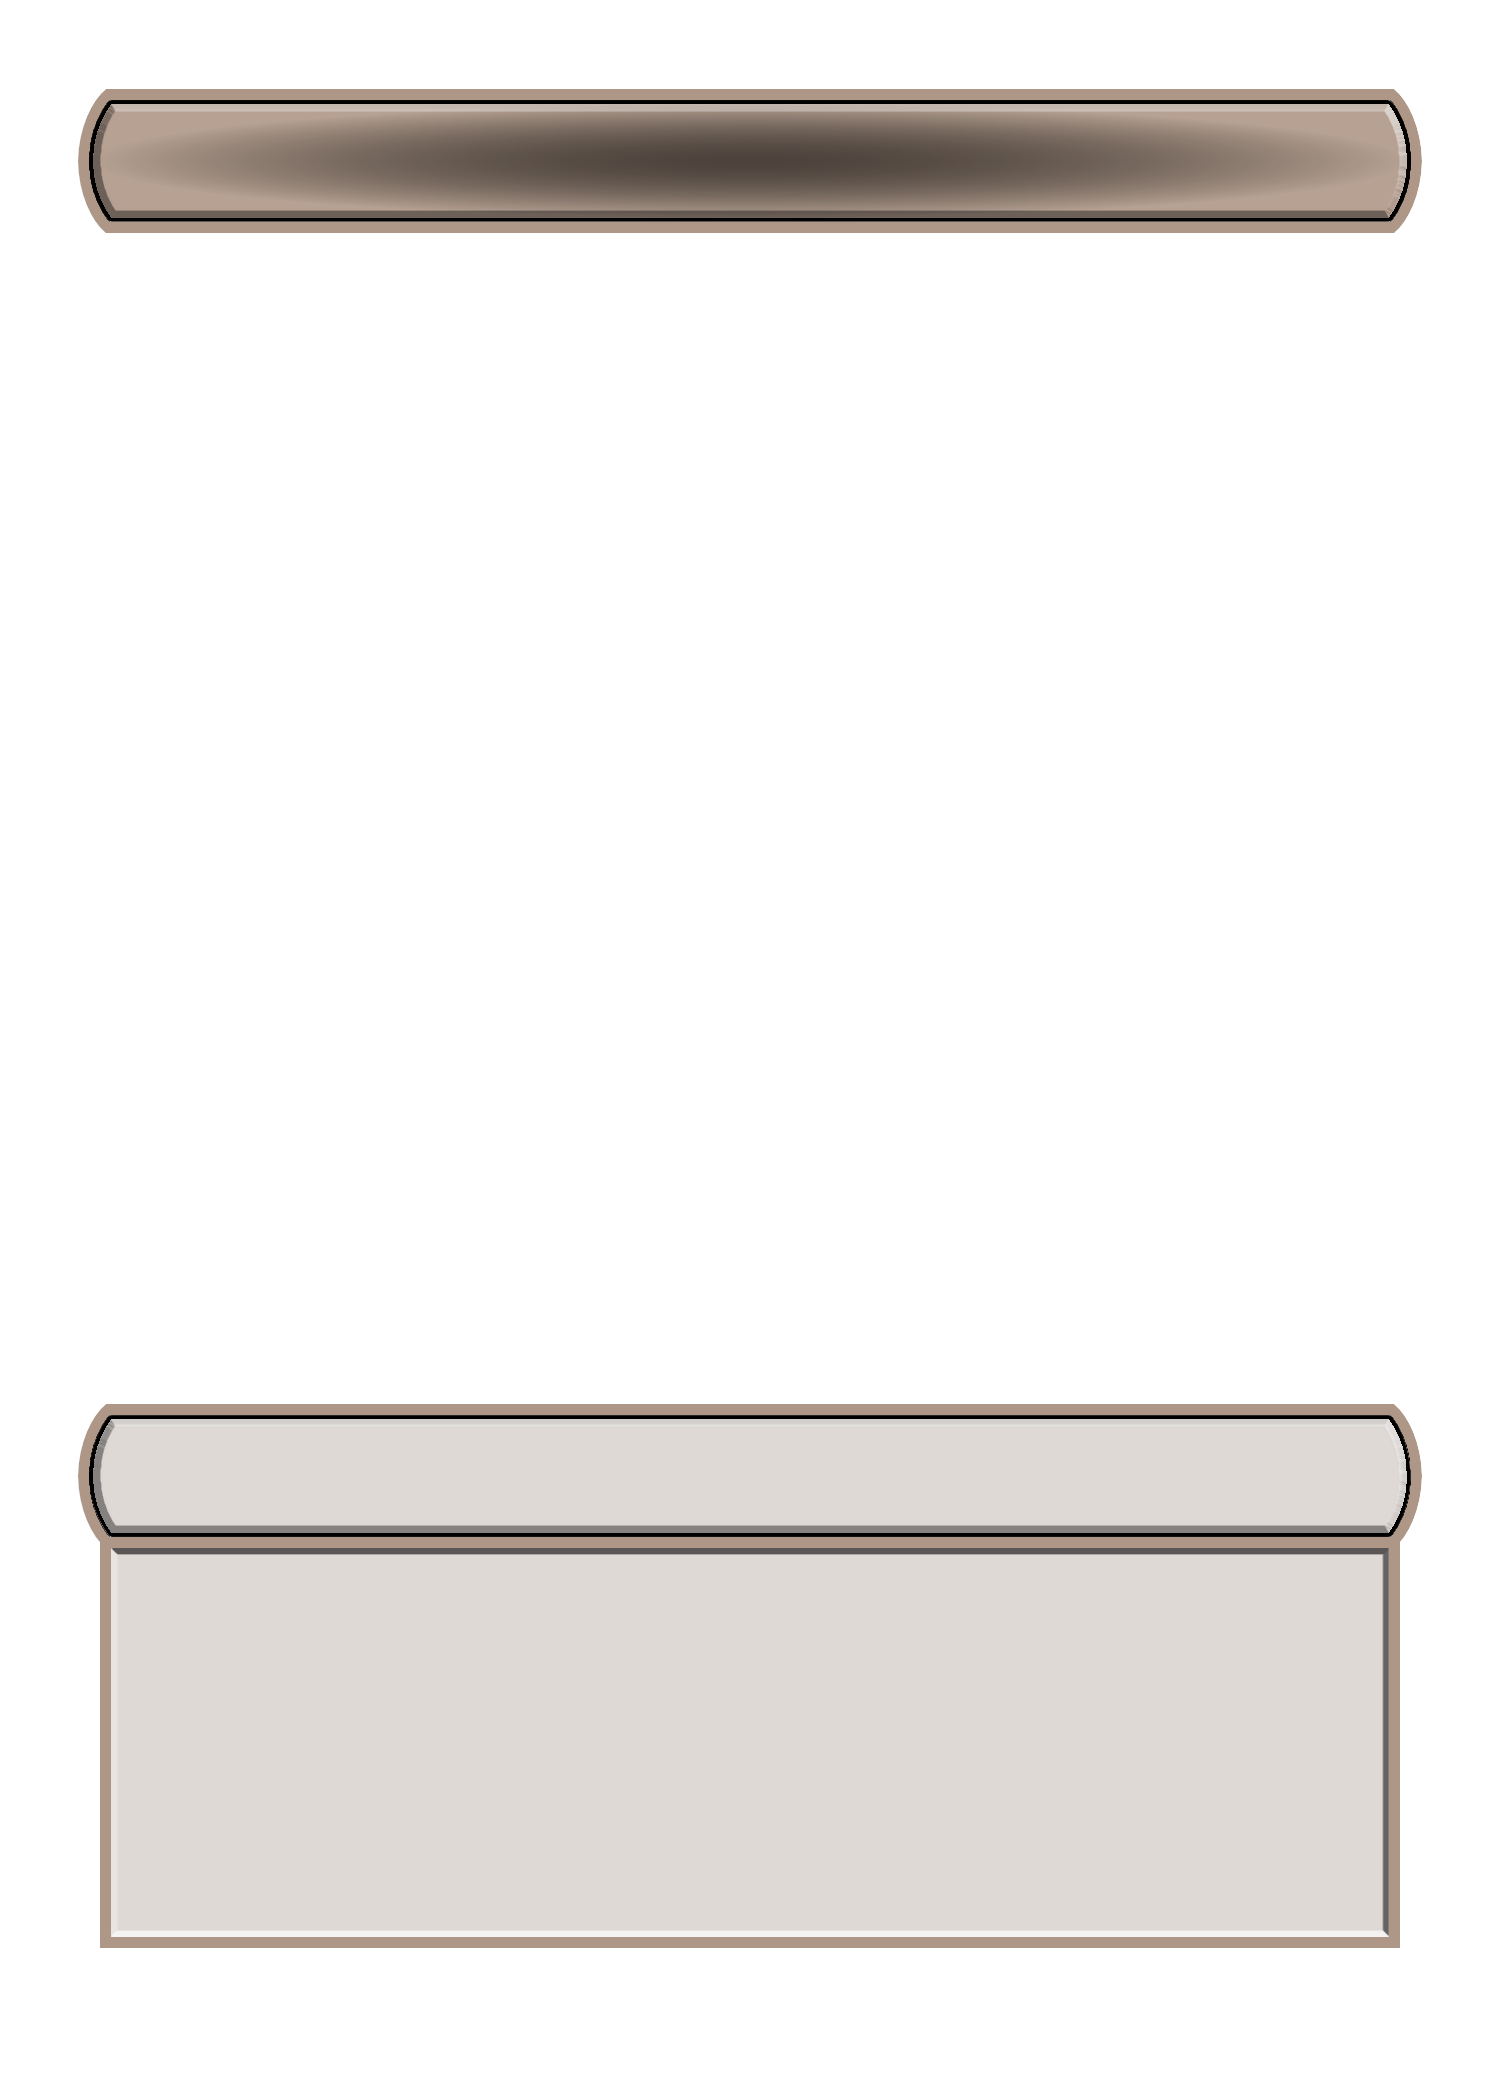
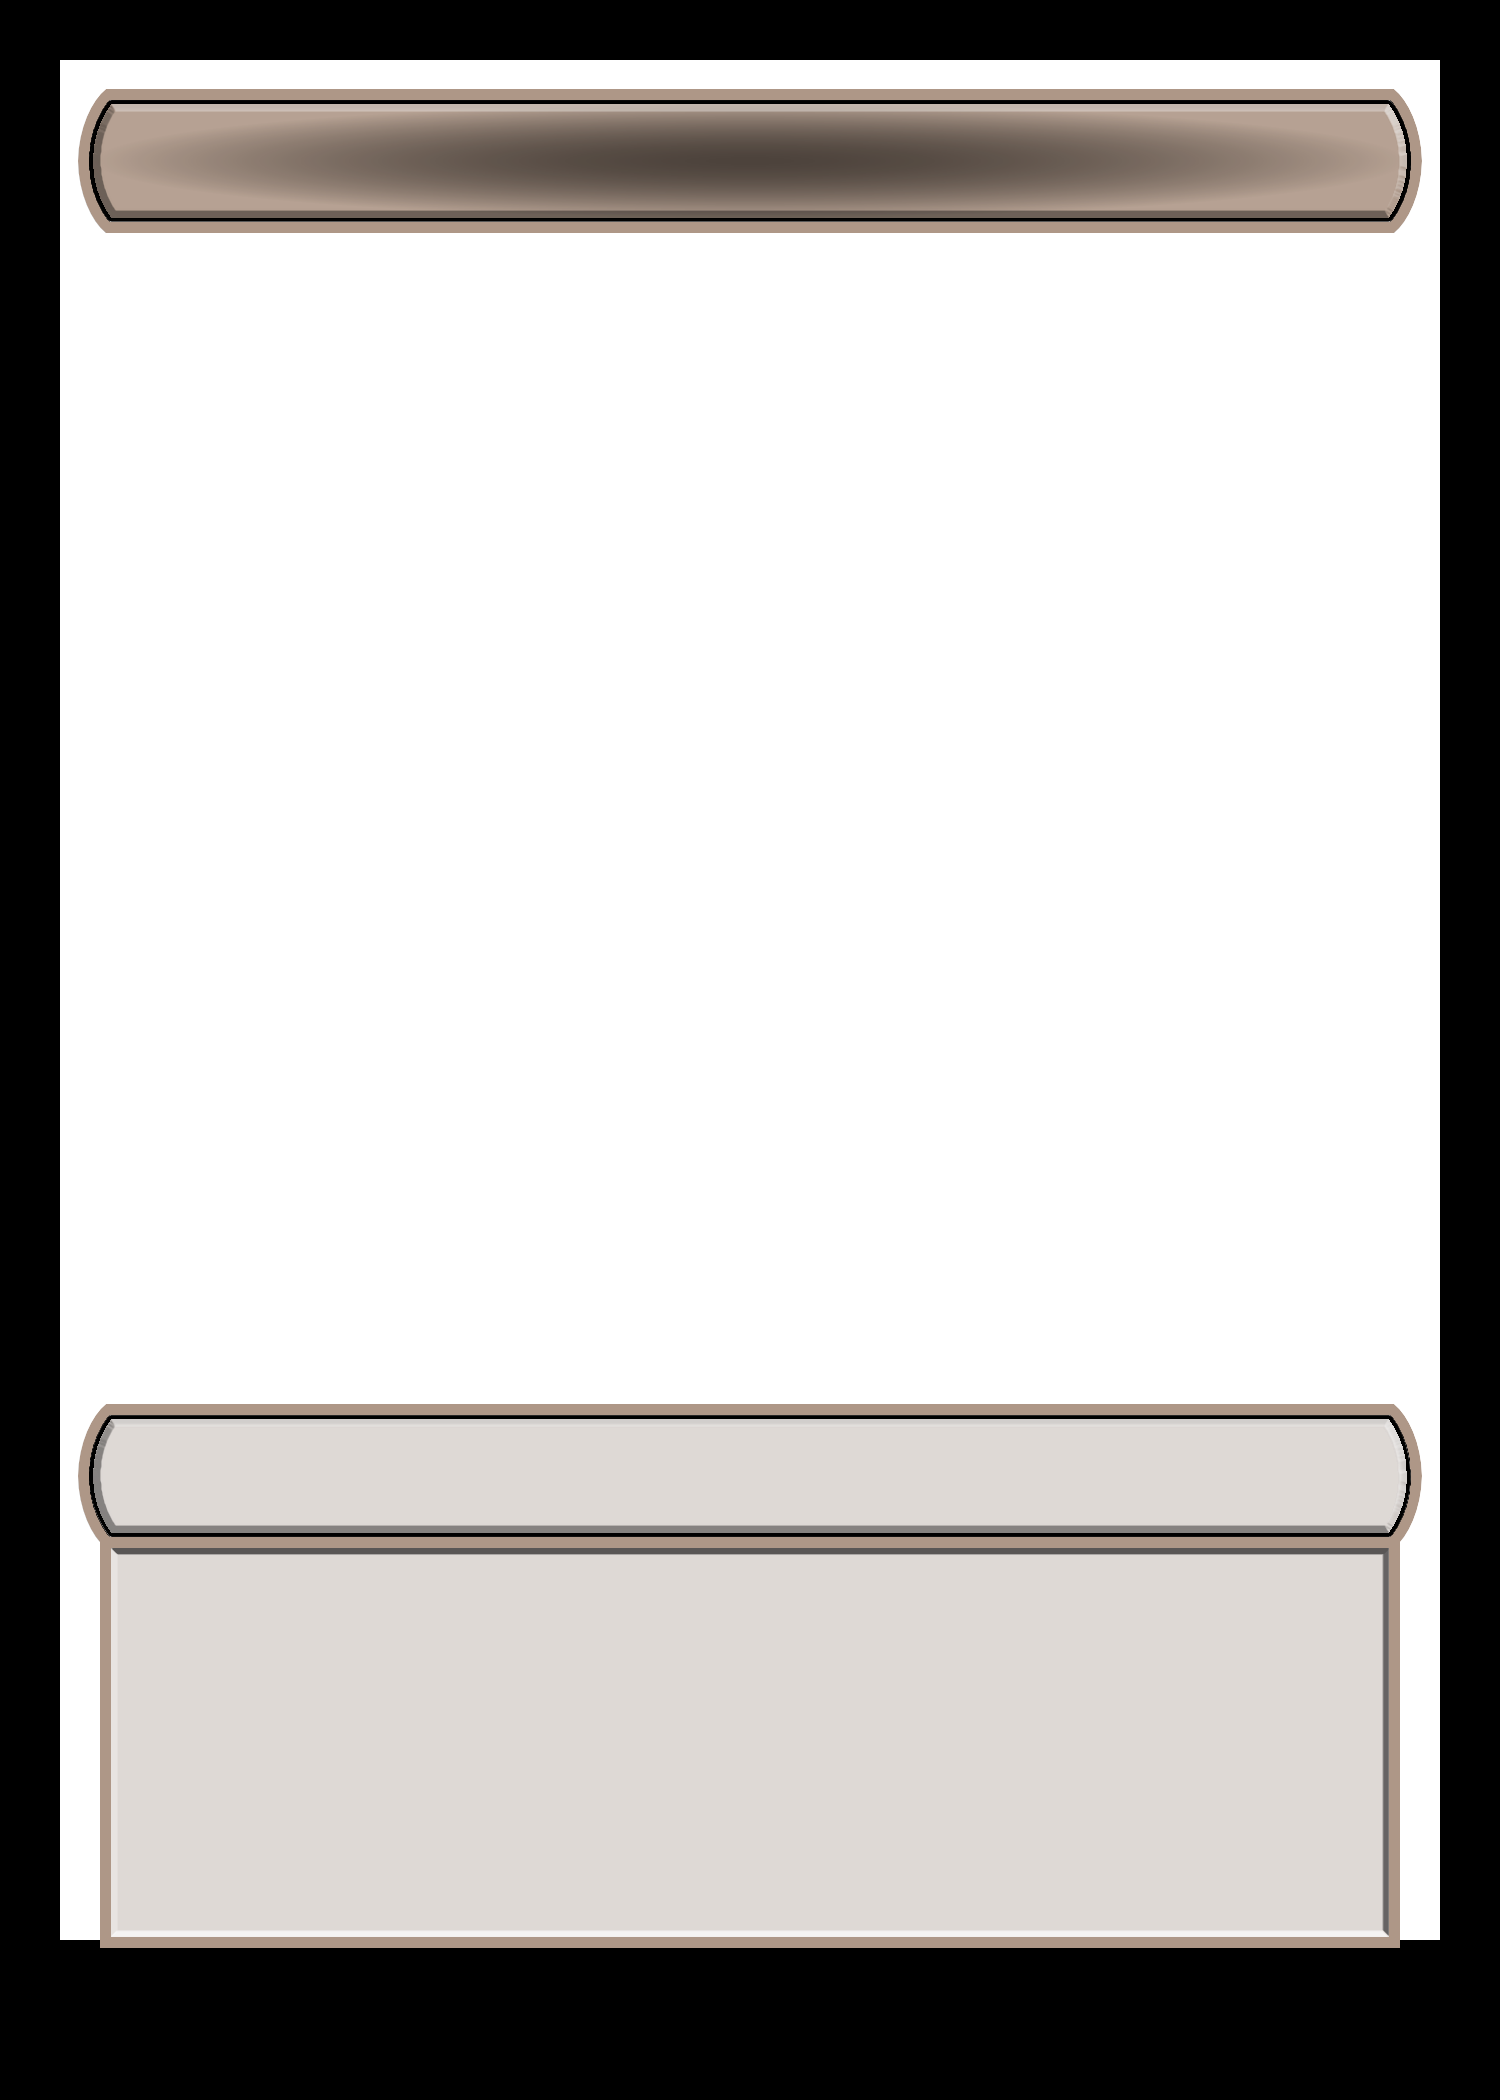
Restore native outer borders on short-box token frames

Changed region(s): [[0.0, 0.0, 1.0, 1.0]]

diff --git a/ProxyFoundry/tests/test_short_token_art_fill.py b/ProxyFoundry/tests/test_short_token_art_fill.py
@@ -1,4 +1,5 @@
 import io
+from pathlib import Path
 import pytest
 from PIL import Image
 from foundry.compiler import Compiler,semantic,FULL_ART_NONLAND_BOUNDS,SHORT_TOKEN_ART_VERSION,fit_token_art
@@ -6,6 +7,16 @@ from foundry.workspace import Workspace
 from foundry.images import ingest_image
 from foundry.artwork import ArtworkIndex
 from test_pipeline import workspace
+
+
+@pytest.mark.parametrize('code',list('WUBRGMALC'))
+def test_short_token_frame_keeps_its_native_black_border(code):
+    with Image.open(Path(__file__).resolve().parents[1]/'assets/token-short'/('frame'+code+'.png')) as frame:
+        rgba=frame.convert('RGBA');width,height=rgba.size
+        for x,y in [(0,.5),(.02,.5),(.98,.5),(.5,0),(.5,.02),(.5,.97)]:
+            assert rgba.getpixel((int(x*width),int(y*height)))==(0,0,0,255)
+        #The border overlays the art; it must leave the central art window open.
+        assert rgba.getpixel((width//2,height//3))[3]==0
 
 
 def card(native=False):
@@ -74,7 +85,8 @@ def test_converted_token_refresh_is_scoped_to_the_selected_style(workspace,monke
 
 
 @pytest.mark.parametrize('scope',['card','deck','both'])
-def test_existing_converted_decks_refresh_the_art_fit_and_then_reuse_it(workspace,monkeypatch,scope):
+@pytest.mark.parametrize('frozen',[False,True])
+def test_existing_converted_decks_refresh_the_art_fit_and_then_reuse_it(workspace,monkeypatch,scope,frozen):
     import foundry.workspace as workspace_module
     import foundry.compiler as compiler_module
     store,art,settings=workspace;ws=Workspace(store);deck=ws.new_deck('Short token fill')
@@ -85,9 +97,16 @@ def test_existing_converted_decks_refresh_the_art_fit_and_then_reuse_it(workspac
     prepared=ws.prepare(deck['id']);face=prepared['cards'][0]['faces'][0]
     assert not face.get('error')
     assert_covers_canvas(face['compiled']['data'],(900,900))
+    if frozen:
+        from foundry.deck_document import recipe_fingerprint,reusable_recipe
+        prepared['recipeSnapshot']={'fingerprint':recipe_fingerprint(prepared)}
+        assert reusable_recipe(prepared)
+        store.put('decks',prepared,prepared['revision'])
     version=SHORT_TOKEN_ART_VERSION+1
     monkeypatch.setattr(workspace_module,'SHORT_TOKEN_ART_VERSION',version)
     monkeypatch.setattr(compiler_module,'SHORT_TOKEN_ART_VERSION',version)
+    if frozen:assert not reusable_recipe(prepared)
+    assert ws.deck(deck['id'])['status']=='draft'
     compile=ws.compiler.compile_face;calls=[]
     def tracked(*args,**kwargs):calls.append(1);return compile(*args,**kwargs)
     monkeypatch.setattr(ws.compiler,'compile_face',tracked)

diff --git a/ProxyFoundry/scripts/build_short_token_frames.py b/ProxyFoundry/scripts/build_short_token_frames.py
@@ -1,7 +1,7 @@
 """Assemble the native Short token pack once, excluding its unused image areas."""
 import io,sys,urllib.request
 from pathlib import Path
-from PIL import Image,ImageChops
+from PIL import Image,ImageChops,ImageDraw
 sys.path.insert(0,str(Path(__file__).resolve().parents[1]))
 from foundry.domain import CC_REPO,CC_COMMIT
 ROOT=Path(__file__).resolve().parents[1]
@@ -26,7 +26,12 @@ def build():
     for code in 'WUBRGMALC':
         name='frameC.png' if code=='C' else f'tokenFrame{code}Short.png'
         frame=load('/img/frames/token/short/'+name)
-        coverage=Image.new('L',frame.size)
+        #The token pack's black outer border is outside its art window.
+        #Keep it even when artwork is fitted across the full canvas beneath it.
+        width,height=frame.size
+        coverage=Image.new('L',frame.size,255)
+        ImageDraw.Draw(coverage).rectangle((round(.04*width),round(.0286*height),
+            round(.96*width)-1,round(.9239*height)-1),fill=0)
         for mask in masks:
             coverage=ImageChops.lighter(coverage,mask.resize(frame.size,Image.Resampling.LANCZOS))
         frame.putalpha(ImageChops.multiply(frame.getchannel('A'),coverage))

diff --git a/ProxyFoundry/foundry/deck_document.py b/ProxyFoundry/foundry/deck_document.py
@@ -82,9 +82,12 @@ def recipe_fingerprint(deck):
 
 
 def reusable_recipe(deck):
+    from .compiler import SHORT_TOKEN_ART_VERSION
     snapshot=deck.get('recipeSnapshot')
     return bool(snapshot and snapshot.get('fingerprint')==recipe_fingerprint(deck) and
                 all(face.get('compiled') and not face.get('error') and not has_retired_land_frame(face['compiled'].get('data') or {})
+                    and (face['compiled'].get('data',{}).get('version')!='tokenShort' or
+                         face['compiled']['data'].get('shortTokenArtVersion')==SHORT_TOKEN_ART_VERSION)
                     for card in deck['cards'] for face in stored_faces(card)))
 
 

diff --git a/ProxyFoundry/foundry/workspace.py b/ProxyFoundry/foundry/workspace.py
@@ -947,6 +947,7 @@ class Workspace:
             return assets[ident]
         for f in c['faces']:
             comp=f.get('compiled') or {}
+            if comp.get('data',{}).get('version')=='tokenShort' and comp['data'].get('shortTokenArtVersion')!=SHORT_TOKEN_ART_VERSION:return False
             if has_retired_land_frame(comp.get('data') or {}):return False
             if has_untap_alias(comp.get('data') or {}):return False
             if has_touching_ability_badges(comp.get('data') or {}):return False

diff --git a/ProxyFoundry/foundry/compiler.py b/ProxyFoundry/foundry/compiler.py
@@ -35,7 +35,7 @@ MODERN_TOKEN_STYLES={'token-full-art','token-full-art-short'}
 TOKEN_FRAME_STYLES=MODERN_TOKEN_STYLES|{'token-classic','token-borderless'}
 TOKEN_DUAL_COLOR_VERSION=2
 TOKEN_TRUE_NAME_LAYER_VERSION=1
-SHORT_TOKEN_ART_VERSION=1
+SHORT_TOKEN_ART_VERSION=2
 DFC_TITLE_MANA_VERSION=1
 BUILTINS=[
  {'id':'auto','name':'Card Tools · automatic','description':'Preserves every approved v58 type-specific recipe.','legendary':True,'groups':'all'},
